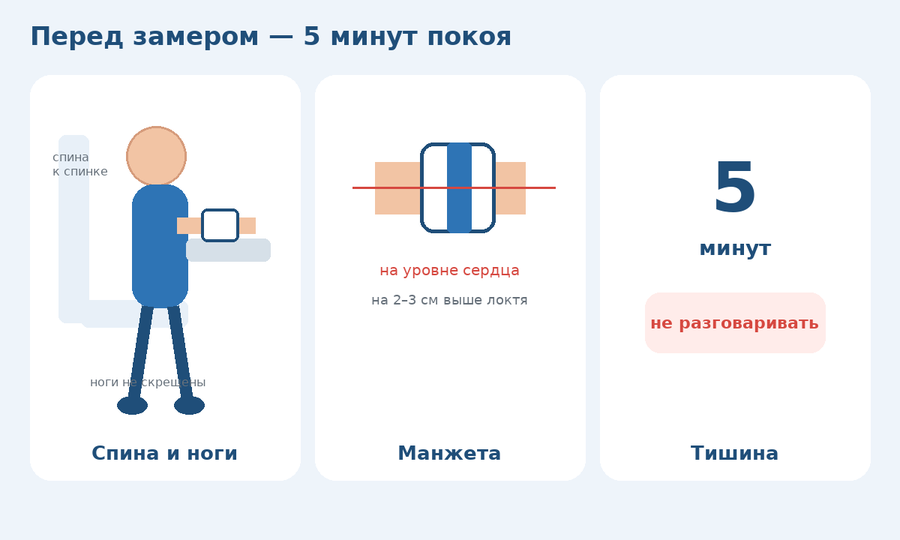
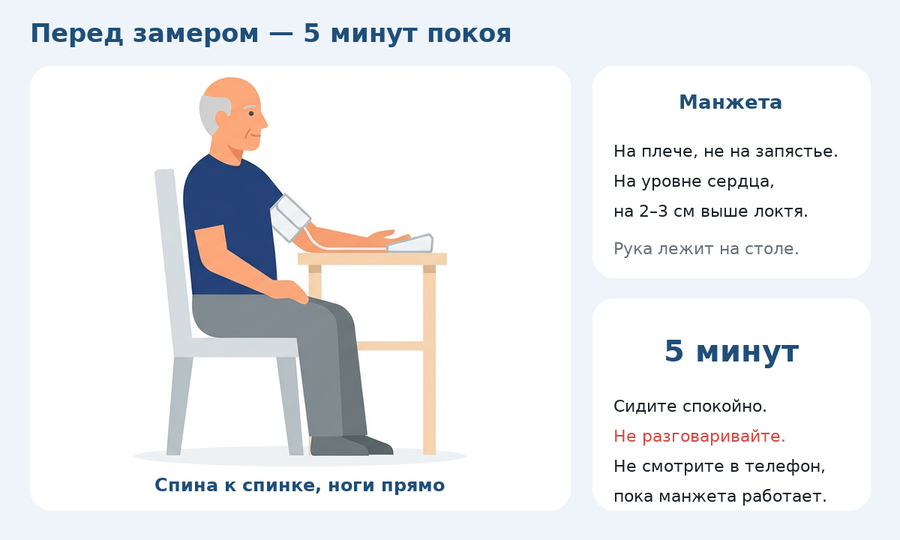
В инструкции понятнее посадка, а в первом замере — подсказка про среднее.

diff --git a/bp-diary-app/design/make_pair_guide.py b/bp-diary-app/design/make_pair_guide.py
@@ -68,55 +68,44 @@ def save(img, name):
     preview.save(RES / f"{name}.webp", format="WEBP", quality=82, method=6)
 
 
+def fit_figure(src, box):
+    gray = src.convert("L")
+    mask = gray.point(lambda p: 255 if p < 250 else 0)
+    bbox = mask.getbbox()
+    crop = src.crop(bbox) if bbox else src
+    bw, bh = box[2] - box[0] - 28, box[3] - box[1] - 72
+    scale = min(bw / crop.width, bh / crop.height)
+    size = (max(1, int(crop.width * scale)), max(1, int(crop.height * scale)))
+    fitted = crop.resize(size, Image.Resampling.LANCZOS)
+    x = box[0] + 14 + (bw - size[0]) // 2
+    y = box[1] + 14 + (bh - size[1]) // 2
+    return fitted.convert("RGBA"), (x, y)
+
+
 def step_prepare():
     img, d = canvas()
-    title = fnt(34, True)
-    d.text((40, 28), "Перед замером — 5 минут покоя", font=title, fill=NAVY)
-
-    panels = [
-        (40, 100, 400, 640, "Спина и ноги"),
-        (420, 100, 780, 640, "Манжета"),
-        (800, 100, 1160, 640, "Тишина"),
-    ]
-    for box, cap in ((p[:4], p[4]) for p in panels):
+    d.text((40, 24), "Перед замером — 5 минут покоя", font=fnt(34, True), fill=NAVY)
+    left = (40, 88, 760, 680)
+    right_top = (790, 88, 1160, 370)
+    right_bot = (790, 398, 1160, 680)
+    for box in (left, right_top, right_bot):
         rr(d, box, 28, WHITE)
-        text_c(d, ((box[0] + box[2]) / 2, box[3] - 36), cap, fnt(26, True), NAVY)
+    src = Image.open(OUT / "posture-ref.png")
+    figure, pos = fit_figure(src, left)
+    img.paste(figure, pos, figure)
+    text_c(d, ((left[0] + left[2]) / 2, left[3] - 34), "Спина к спинке, ноги прямо", fnt(24, True), NAVY)
 
-    # 1. человек на стуле, вид сбоку
-    cx = 220
-    # спинка
-    rr(d, (78, 180, 118, 430), 10, NAVY_SOFT)
-    # сиденье
-    rr(d, (108, 400, 250, 436), 10, NAVY_SOFT)
-    # голова
-    d.ellipse((168, 168, 248, 248), fill=SKIN, outline=SKIN_EDGE, width=3)
-    # туловище
-    rr(d, (176, 246, 250, 410), 28, (46, 116, 181))
-    # ноги вниз, не скрещены
-    d.line((196, 408, 176, 540), fill=NAVY, width=16)
-    d.line((230, 408, 250, 540), fill=NAVY, width=16)
-    d.ellipse((156, 528, 196, 552), fill=NAVY)
-    d.ellipse((232, 528, 272, 552), fill=NAVY)
-    # стол и рука
-    rr(d, (248, 318, 360, 348), 8, (214, 224, 232))
-    d.line((236, 300, 340, 300), fill=SKIN, width=22)
-    rr(d, (268, 278, 318, 322), 8, WHITE, NAVY, 4)
-    d.text((70, 200), "спина\nк спинке", font=fnt(16), fill=GRAY)
-    d.text((120, 500), "ноги не скрещены", font=fnt(16), fill=GRAY)
+    text_c(d, ((right_top[0] + right_top[2]) / 2, right_top[1] + 48), "Манжета", fnt(26, True), NAVY)
+    d.text((right_top[0] + 28, right_top[1] + 100), "На плече, не на запястье.", font=fnt(22), fill=INK)
+    d.text((right_top[0] + 28, right_top[1] + 140), "На уровне сердца,", font=fnt(22), fill=INK)
+    d.text((right_top[0] + 28, right_top[1] + 180), "на 2–3 см выше локтя.", font=fnt(22), fill=INK)
+    d.text((right_top[0] + 28, right_top[1] + 230), "Рука лежит на столе.", font=fnt(22), fill=GRAY)
 
-    # 2. манжета на уровне сердца
-    d.line((500, 250, 700, 250), fill=SKIN, width=70)
-    rr(d, (560, 190, 660, 310), 18, WHITE, NAVY, 5)
-    rr(d, (596, 190, 628, 310), 6, (46, 116, 181))
-    d.line((470, 250, 740, 250), fill=CORAL, width=3)
-    d.text((600, 360), "на уровне сердца", font=fnt(20), fill=CORAL, anchor="mm")
-    d.text((600, 400), "на 2–3 см выше локтя", font=fnt(18), fill=GRAY, anchor="mm")
-
-    # 3. тишина и 5 минут
-    text_c(d, (980, 250), "5", fnt(92, True), NAVY)
-    text_c(d, (980, 330), "минут", fnt(28, True), NAVY)
-    rr(d, (860, 390, 1100, 470), 20, (255, 236, 234))
-    text_c(d, (980, 430), "не разговаривать", fnt(22, True), CORAL)
+    text_c(d, ((right_bot[0] + right_bot[2]) / 2, right_bot[1] + 70), "5 минут", fnt(40, True), NAVY)
+    d.text((right_bot[0] + 28, right_bot[1] + 130), "Сидите спокойно.", font=fnt(22), fill=INK)
+    d.text((right_bot[0] + 28, right_bot[1] + 170), "Не разговаривайте.", font=fnt(22), fill=CORAL)
+    d.text((right_bot[0] + 28, right_bot[1] + 210), "Не смотрите в телефон,", font=fnt(22), fill=INK)
+    d.text((right_bot[0] + 28, right_bot[1] + 250), "пока манжета работает.", font=fnt(22), fill=INK)
     return img
 
 
@@ -132,8 +121,8 @@ def step_plus():
     fab = (screen[2] - 110, screen[3] - 120, screen[2] - 36, screen[3] - 46)
     d.ellipse(fab, fill=NAVY)
     text_c(d, ((fab[0] + fab[2]) / 2, (fab[1] + fab[3]) / 2 - 2), "+", fnt(48, True), WHITE)
-    # стрелка-подпись
-    d.line((900, 250, 760, 500), fill=CORAL, width=8)
+    tip = ((fab[0] + fab[2]) / 2 + 8, fab[1] + 8)
+    d.line((980, 248, tip[0], tip[1]), fill=CORAL, width=8)
     rr(d, (860, 160, 1140, 250), 18, CORAL)
     text_c(d, (1000, 205), "нажмите +", fnt(28, True), WHITE)
     return img

diff --git a/bp-diary-app/README.md b/bp-diary-app/README.md
@@ -104,6 +104,7 @@ bp-diary-app/
 
 | Версия | Что нового |
 |---|---|
+| **1.21** (versionCode 22) | Картинка посадки в инструкции понятнее; в первом замере подсказка не нажимать «Один замер» |
 | **1.20** (versionCode 21) | В «О программе» — пошаговая инструкция двух замеров с картинками: в дневник пишется среднее |
 | **1.19** (versionCode 20) | Иконка приложения — тонометр с пульсом. Ещё три варианта лежат в `design/icon-choices` |
 | **1.18** (versionCode 19) | PDF называется «Дневник АД Фамилия И.О. дата формирования» |
